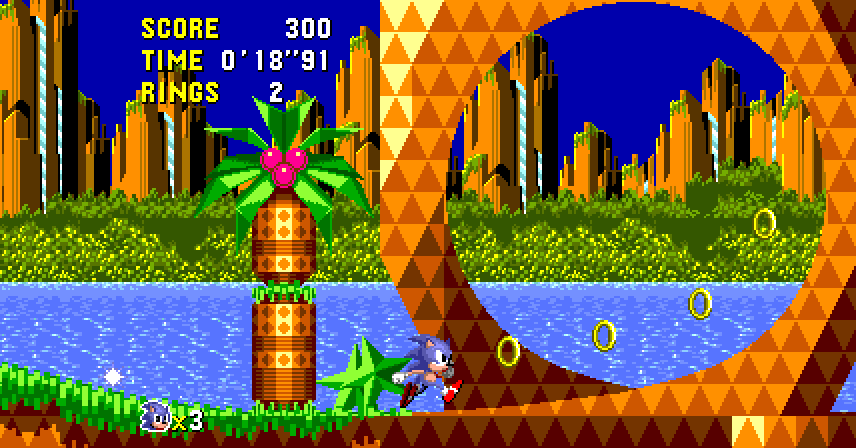
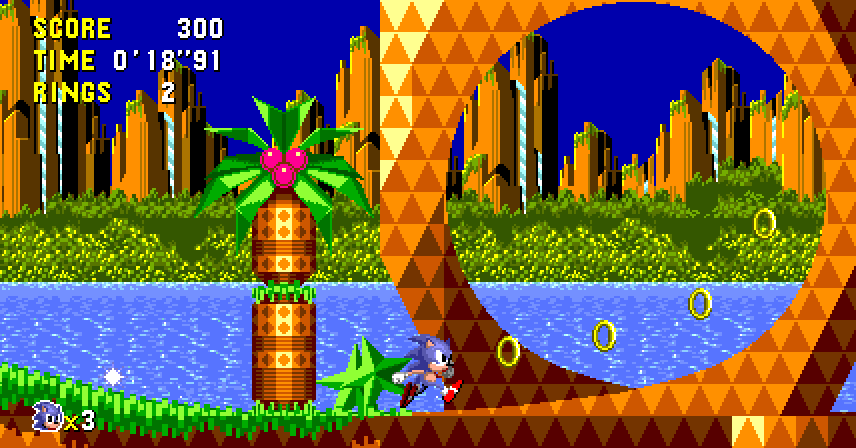
Widescreen: the HUD and lives at the left edge, as in the 2011 version
Sprites the game places on the screen used to stay in the middle 320 pixels. Now the HUD object ($1c:
score, time, rings, lives; and $19 under the lives, the same type in every stage) is pinned to the
picture's left edge wherever the camera is; title cards and the rest stay in the middle.

Claude-Session: https://claude.ai/code/session_01Fvym3MLq5S35d7hfAA94Qk

Changed region(s): [[0.0304, 0.0312, 0.3949, 0.25], [0.1519, 0.875, 0.243, 0.9688], [0.0304, 0.875, 0.1215, 0.9688]]

diff --git a/src/wide.c b/src/wide.c
@@ -10,10 +10,14 @@
 //
 // The extra pixels are split evenly, except near the camera's bounds: the picture never shows past
 // where the camera could go, so at the start of a level it all goes to the right. What the game places
-// on the screen rather than in the level (the HUD, title cards) stays in the middle 320 pixels.
+// on the screen rather than in the level stays put: the HUD (score, time, rings, lives) at the left edge
+// of the picture, as in the 2011 version, and the rest (title cards, the results) in the middle.
 #include "wide.h"
 #include "mcd.h"
 #include "vdp.h"
+
+#define OBJ_HUD 0x1c      // object types (byte 0 of an object, the same in every stage): score/time/rings, lives
+#define OBJ_HUD2 0x19     // (and the piece under the lives)
 
 static bool enabled;
 static int cur = -1;          // the stage file in Word RAM (wide_files index), -1 if none
@@ -105,9 +109,12 @@ int wide_trap(M68k *c, int id) {
     c->sr = (c->sr & ~0x1f) | ccr;
     return 1;
   }
-  case 6:                                                                          // move.w $8(a0),d3
-    c->r[3] = (c->r[3] & 0xffff0000) | (u16)(rd16(c->r[8] + 8) + WIDE_EXTRA / 2 - l);
+  case 6: {                                                                        // move.w $8(a0),d3
+    u8 obj = mcd.work_ram[c->r[8] & 0xffff];   // the object's type
+    int shift = obj == OBJ_HUD || obj == OBJ_HUD2 ? -l : WIDE_EXTRA / 2 - l;
+    c->r[3] = (c->r[3] & 0xffff0000) | (u16)(rd16(c->r[8] + 8) + shift);
     return 1;
+  }
   }
   return 0;
 }

diff --git a/tools/wide_gen.py b/tools/wide_gen.py
@@ -11,8 +11,8 @@ line-A traps that ask the emulator where the edges are this frame:
   moveq #$15,d6              blocks in a row, minus one            -> $a803        d6 = (right - left) / 16
   move.w d3,d1 (add.w d0,d1) object's right side on screen?        -> $a804        d1 = d3 + left extra
   cmpi.w #$140,d1            object's left side on screen?         -> $a805, nop   cmp with 320 + right extra
-  move.w $8(a0),d3           x of a sprite placed on the screen    -> $a806, nop   kept in the middle 320
-                             (the HUD, title cards: they stay put while the extra pixels shift sides)
+  move.w $8(a0),d3           x of a sprite placed on the screen    -> $a806, nop   the HUD at the left edge,
+                             title cards and the rest in the middle (they stay put as the extra pixels shift)
 
 Each site is found by the instructions around it, and a file is only listed when all of them are found and
 the camera variables are where the code below expects them.

diff --git a/README.md b/README.md
@@ -92,9 +92,10 @@ LGPL build of [FFmpeg](https://ffmpeg.org) that ships with the game.
 Drive's pixel shape, like the 2011 version, without stretching anything. The game still plays on its own
 320-pixel screen; the stage engine is patched in a handful of places (the same ones in each of the 73 files
 that carry it, found by tools/wide_gen.py) to draw the level and show objects further out, and the picture
-reaches past either side of that screen, never past where the camera can go. The HUD and title cards stay in
-the middle. Objects at the sides count as on screen, so badniks there wake up a little earlier than on a TV.
-Menus, special stages and cutscenes stay 4:3. Switched on in the middle of an act, it starts at the next one.
+reaches past either side of that screen, never past where the camera can go. The HUD sits at the left edge,
+as in the 2011 version; title cards stay in the middle. Objects at the sides count as on screen, so badniks
+there wake up a little earlier than on a TV. Menus, special stages and cutscenes stay 4:3. Switched on in the
+middle of an act, it starts at the next one.
 
 ### Extras
 
